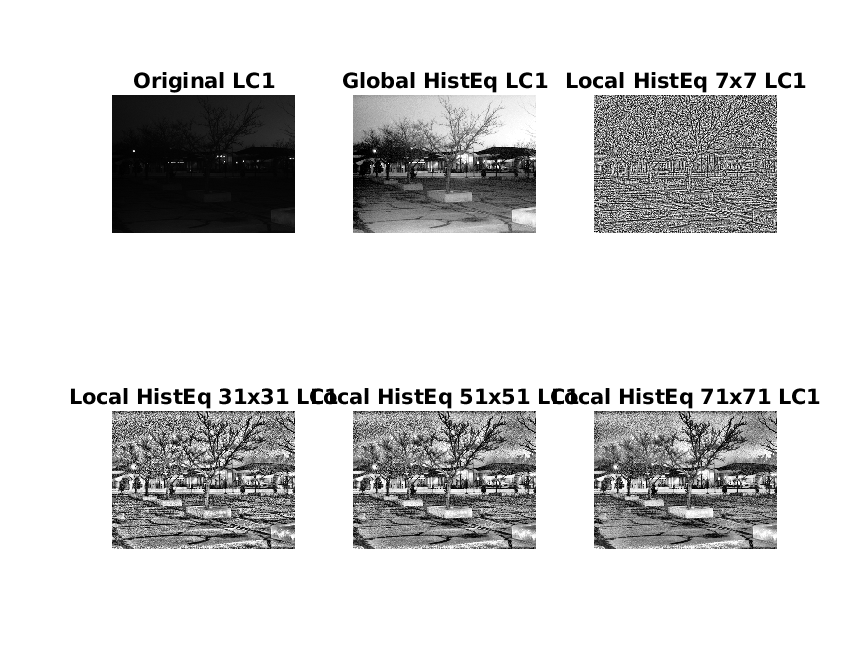
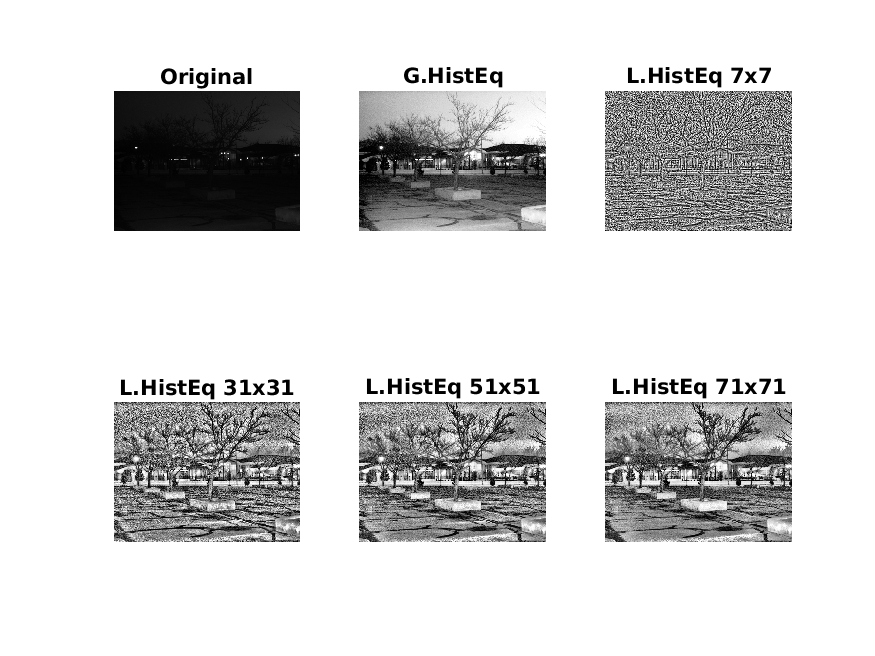
Done with images of Q8

diff --git a/HW2/assignment2/8/code/myMainScript.m b/HW2/assignment2/8/code/myMainScript.m
@@ -1,102 +1,4 @@
 %% MyMainScript
-
-% tic;
-% %% Your code here
-% LC1 = imread('../images/LC1.png');
-% [rows, cols] = size(LC1);
-% disp(rows);
-% disp(cols);
-% L = max(max(LC1));
-% disp(L);
-% globalHistEqLC1 = histeq(LC1);
-% imshow(globalHistEqLC1);
-% localHistEqLC1 = transformImage(LC13,7,7);
-% imshow(localHistEqLC1);
-% function output = transformImage(input,pc,pr)
-%     [rows,cols] = size(input);
-%     output = zeros(rows,cols);
-%     for i = 1:rows
-%         for j = 1:cols
-%             out = localHistEq(input,i,j,pc,pr);
-%             output(i,j) = out((pr + 1)/2,(pc + 1)/2);
-%         end;
-%     end;
-% end;
-
-% function output = localHistEq(input,x,y,pc,pr)
-%     out = zeros(pc,pr);
-%     [rows,cols] = size(input);
-%     r = (pr + 1)/2;
-%     c = (pc + 1)/2;
-%     for i = 1:(r - 1)
-%         for j = 1:(c - 1)
-%             if ((x - i > 0) && (y - j > 0))
-%                 out(i,j) = input(x - i,y - j);
-%             end;
-%             if ((x + i <= rows) && (y + j <= cols))
-%                 out(r + i,c + j) = input (x + i,y + j);
-%             end;
-%         end;
-%     end;
-%     out(r,c) = input(x,y);
-%     output = histeq(out);
-% end;
-
-% toc;
-%% MyMainScript
-
-% tic;
-% %% Your code here
-% LC1 = imread('../images/LC1.png');
-% globalHistEqLC1 = histeq(LC1);
-
-% LC2 = imread('../images/LC2.jpg');
-% globalHistEqLC2 = histeq(LC2);
-% localHistEqLC1 = transformImage(LC1, 71, 71);
-% localHistEqLC2 = transformImage(LC2, 71, 71);
-% figure;
-% subplot(2, 2, 1);
-% imshow(globalHistEqLC1);
-% title('Global Histogram Equalization');
-% subplot(2, 2, 2);
-% imshow(localHistEqLC1, []);
-% title('Local Histogram Equalization');
-% subplot(2, 2, 3);
-% imshow(globalHistEqLC2);
-% title('Global Histogram Equalization');
-% subplot(2, 2, 4);
-% imshow(localHistEqLC2, []);
-% title('Local Histogram Equalization');
-% toc;
-
-% function output = transformImage(input, pc, pr)
-%     [rows, cols] = size(input);
-%     output = zeros(rows, cols, 'like', input);
-%     padSize = floor(max(pc, pr) / 2);
-%     paddedImage = padarray(input, [padSize, padSize], 'replicate', 'both');
-    
-%     for i = 1:rows
-%         for j = 1:cols
-%             % Extract the local region
-%             localRegion = paddedImage(i:i+pc-1, j:j+pr-1);
-            
-%             % Perform local histogram equalization
-%             output(i, j) = localHistEq(localRegion, ceil(pc/2), ceil(pr/2));
-%         end
-%     end
-% end
-
-% function output = localHistEq(region, centerX, centerY)
-%     % Extract the center pixel value
-%     centerValue = region(centerX, centerY);
-    
-%     % Perform histogram equalization on the local region
-%     eqRegion = histeq(region);
-    
-%     % Return the value of the center pixel from the equalized region
-%     output = eqRegion(centerX, centerY);
-% end
-% Start timer
 tic;
 
 % Load the images
@@ -119,86 +21,81 @@ localHistEqLC2_31x31 = transformImage(LC2, 31, 31);
 localHistEqLC2_51x51 = transformImage(LC2, 51, 51);
 localHistEqLC2_71x71 = transformImage(LC2, 71, 71);
 
-%% Create the figure for LC1
+titleFontSize = 10;
+
 figure;
 subplot(2, 3, 1);
 imshow(LC1);
-title('Original LC1');
+title('Original', 'FontSize', titleFontSize);
 
 subplot(2, 3, 2);
 imshow(globalHistEqLC1);
-title('Global HistEq LC1');
+title('G.HistEq', 'FontSize', titleFontSize);
 
 subplot(2, 3, 3);
 imshow(localHistEqLC1_7x7, []);
-title('Local HistEq 7x7 LC1');
+title('L.HistEq 7x7', 'FontSize', titleFontSize);
 
 subplot(2, 3, 4);
 imshow(localHistEqLC1_31x31, []);
-title('Local HistEq 31x31 LC1');
+title('L.HistEq 31x31', 'FontSize', titleFontSize);
 
 subplot(2, 3, 5);
 imshow(localHistEqLC1_51x51, []);
-title('Local HistEq 51x51 LC1');
+title('L.HistEq 51x51', 'FontSize', titleFontSize);
 
 subplot(2, 3, 6);
 imshow(localHistEqLC1_71x71, []);
-title('Local HistEq 71x71 LC1');
+title('L.HistEq 71x71', 'FontSize', titleFontSize);
 saveas(gcf, '../images/LC1_hist_eq.png');
 
-%% Create the figure for LC2
 figure;
 subplot(2, 3, 1);
 imshow(LC2);
-title('Original LC2');
+title('Original', 'FontSize', titleFontSize);
 
 subplot(2, 3, 2);
 imshow(globalHistEqLC2);
-title('Global HistEq LC2');
+title('G.HistEq', 'FontSize', titleFontSize);
 
 subplot(2, 3, 3);
 imshow(localHistEqLC2_7x7, []);
-title('Local HistEq 7x7 LC2');
+title('L.HistEq 7x7', 'FontSize', titleFontSize);
 
 subplot(2, 3, 4);
 imshow(localHistEqLC2_31x31, []);
-title('Local HistEq 31x31 LC2');
+title('L.HistEq 31x31', 'FontSize', titleFontSize);
 
 subplot(2, 3, 5);
 imshow(localHistEqLC2_51x51, []);
-title('Local HistEq 51x51 LC2');
+title('L.HistEq 51x51', 'FontSize', titleFontSize);
 
 subplot(2, 3, 6);
 imshow(localHistEqLC2_71x71, []);
-title('Local HistEq 71x71 LC2');
+title('L.HistEq 71x71', 'FontSize', titleFontSize);
 
 saveas(gcf, '../images/LC2_hist_eq.png');
+
 
 toc;
 
 %% Function to perform local histogram equalization
-function output = transformImage(input, pc, pr)
+function output = transformImage(input, pr, pc)
     [rows, cols] = size(input);
-    output = zeros(rows, cols, 'like', input);
-    padSize = floor(max(pc, pr) / 2);
+    output = zeros(rows, cols);
+    padSize = floor(max(pr, pc)/2);
     paddedImage = padarray(input, [padSize, padSize], 'replicate', 'both');
     
-    for i = 1:rows
-        for j = 1:cols
-            % Extract the local region
-            localRegion = paddedImage(i:i+pc-1, j:j+pr-1);
-            
-            % Perform local histogram equalization
-            output(i, j) = localHistEq(localRegion, ceil(pc/2), ceil(pr/2));
+    for i = ceil(pr/2):(floor(pr/2) + rows) 
+        for j = ceil(pc/2):(floor(pc/2) + cols)
+            localRegion = paddedImage(i - padSize:i + padSize, j - padSize:j + padSize);            
+            output(i - floor(pr/2), j - floor(pc/2)) = localHistEq(localRegion, ceil(pr/2), ceil(pc/2));
         end
     end
 end
 
 %% Function to perform histogram equalization on a local region
 function output = localHistEq(region, centerX, centerY)
-    % Perform histogram equalization on the local region
-    eqRegion = histeq(region);
-    
-    % Return the value of the center pixel from the equalized region
+    eqRegion = histeq(region);    
     output = eqRegion(centerX, centerY);
 end
